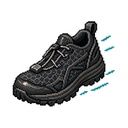
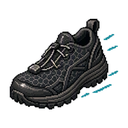
feat(items): size the dash shoes like the other items
Items now fill at most 85% of their square (at least 7.5% white on each
side), which brings the dash shoes to about the median size of the other
icons.

Claude-Session: https://claude.ai/code/session_01UjpvLCvVhCwJrZ5EHwNyVQ

Changed region(s): [[0.0625, 0.125, 0.9375, 0.875]]

diff --git a/scripts/cut_item_icons.py b/scripts/cut_item_icons.py
@@ -27,7 +27,7 @@ ICON_SIZE = 128
 CORNER_RADIUS = 20
 BLOCK = 4  # pieces are found on a grid of BLOCK x BLOCK pixels, which is fast and ignores single stray pixels
 WHITE_THRESHOLD = 235  # a pixel whose channels are all above this is background
-MAX_FILL = 0.8  # an item larger than this share of its square is scaled down, leaving at least 10% white each side
+MAX_FILL = 0.85  # an item larger than this share of its square is scaled down, leaving at least 7.5% white each side
 
 # the items of the sheet, left to right and top to bottom; those not in db_data/items.py are spares
 CELLS = [
